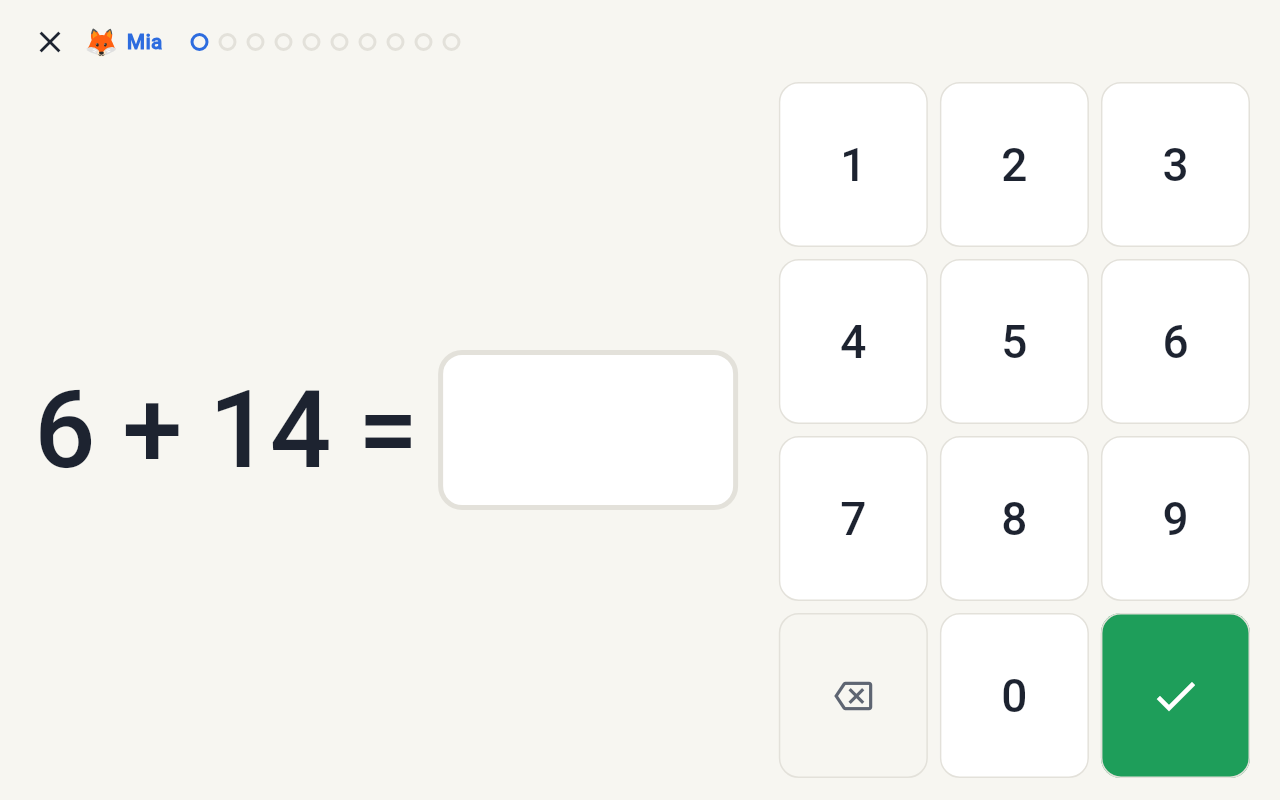
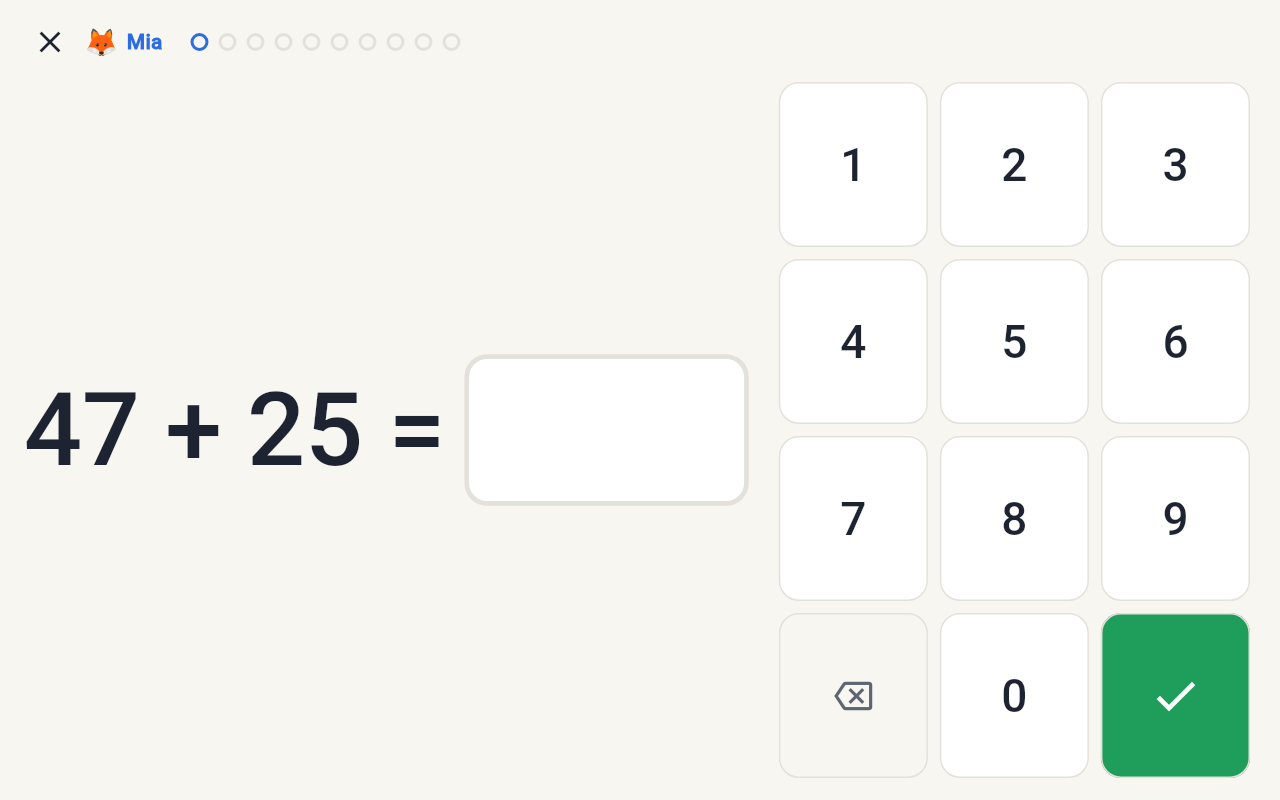
Stabiles Flutter und ein versionCode, den F-Droid lesen kann (2.13.4)
Zwei Vorbedingungen für die Aufnahme, beide am echten Build gegengeprüft.

Der versionCode steht jetzt in pubspec.yaml (2.13.4+21304) statt nur in den
Build-Skripten. F-Droid liest ihn von dort und erkennt daran, dass ein neuer
Tag eine neuere Version ist; damit findet UpdateCheckMode: Tags jede weitere
Veröffentlichung von selbst und legt den Builds-Eintrag an. Der Build-Befehl
braucht dafür weder --build-name noch --build-number mehr: das fertige APK
meldet versionCode 21304 und versionName 2.13.4 allein aus pubspec.yaml.
Weil die beiden Zahlen nun auseinanderlaufen können, rechnet
test/pubspec_version_test.dart die Regel nach.

Die SDK-Grenze geht von ^3.14.0-95.2.beta auf ^3.13.0 und damit auf den
stabilen Kanal. Die Beta-Grenze stammte nicht aus Bedarf, sondern daher, dass
flutter create mit einem Beta-SDK lief; die höchste Forderung unter den
Abhängigkeiten ist ^3.12.0. Geprüft mit Flutter 3.47.4 stable: analyze ohne
Befund, 1166 Tests grün, Release-APK gebaut. Die Screenshots bleiben bis auf
die drei mit zufällig gezogenen Aufgaben Pixel für Pixel dieselben.

Dabei fiel auf, dass "keine einzige Android-Berechtigung" nicht stimmte:
AndroidX legt DYNAMIC_RECEIVER_NOT_EXPORTED_PERMISSION an, mit
protectionLevel="signature". Sie erlaubt nichts und hält nur einen intern
angemeldeten Empfänger von anderen Apps fern - aber F-Droid zeigt die Liste,
und dort stünde ein Eintrag, den die Beschreibung bestreitet.
[…]

Changed region(s): [[0.0, 0.4375, 0.5625, 0.625], [0.375, 0.625, 0.5625, 0.6562], [0.5625, 0.4688, 0.5938, 0.625]]

diff --git a/test/pubspec_version_test.dart b/test/pubspec_version_test.dart
@@ -1,0 +1,30 @@
+import 'dart:io';
+
+import 'package:flutter_test/flutter_test.dart';
+
+/// Keeps the two halves of `version:` in step.
+///
+/// The build scripts used to work the versionCode out from the version alone,
+/// and nothing but the scripts ever knew it. F-Droid reads it out of
+/// `pubspec.yaml` instead - that is how it tells whether a new tag is a newer
+/// version - so the number has to stand there, and now it can drift from the
+/// name beside it. Two builds claiming the same code are not an upgrade to
+/// Android's package manager, and one installed over the other can leave the
+/// app unable to start; that has happened once already.
+void main() {
+  test('the versionCode follows the version', () {
+    final line = File('pubspec.yaml')
+        .readAsLinesSync()
+        .firstWhere((l) => l.startsWith('version:'));
+    final match =
+        RegExp(r'^version:\s*(\d+)\.(\d+)\.(\d+)\+(\d+)\s*$').firstMatch(line);
+    expect(match, isNotNull,
+        reason: 'erwartet "version: X.Y.Z+N", gelesen "$line"');
+
+    final [major, minor, patch, code] =
+        [for (var i = 1; i <= 4; i++) int.parse(match!.group(i)!)];
+    expect(code, major * 10000 + minor * 100 + patch,
+        reason: 'der versionCode gehört zur Version: '
+            '$major.$minor.$patch heißt ${major * 10000 + minor * 100 + patch}');
+  });
+}

diff --git a/fdroid/README.md b/fdroid/README.md
@@ -29,29 +29,27 @@ fdroid build -v -l com.chrbayer.mathe_trainer
 
 ## Was die Recipe voraussetzt
 
-* **Der Tag.** `commit: v2.13.3` zeigt auf einen annotierten Tag, nicht auf
-  einen Branch. Jede weitere Version braucht einen weiteren Eintrag unter
-  `Builds` und einen Tag dazu.
-* **Die Versionsnummern stehen doppelt.** `--build-name` und
-  `--build-number` müssen im Build-Befehl mitgegeben werden, weil
-  `pubspec.yaml` bewusst kein `+N` führt (siehe „Versionierung" in
-  CLAUDE.md). Ohne sie vergäbe Flutter `versionCode = 1`, und F-Droid bricht
-  ab, weil der Code nicht zu dem in der Recipe passt.
-* **`--dart-define=MT_VERSION`** ist dieselbe Nummer ein drittes Mal. Ohne
-  sie bleibt die Ecke auf dem Profilbildschirm leer — ehrlich, aber unnötig.
+* **Der Tag.** `commit: v2.13.4` zeigt auf einen annotierten Tag, nicht auf
+  einen Branch. Jede weitere Version braucht einen Tag dazu; den Eintrag
+  unter `Builds` schreibt F-Droid selbst (siehe unten).
+* **Die Versionsnummern stehen in `pubspec.yaml`**, als `2.13.4+21304`.
+  Deshalb braucht der Build-Befehl weder `--build-name` noch
+  `--build-number`: Flutter nimmt beides von dort. Ein Test hält die zwei
+  Hälften zusammen, siehe „Versionierung" in CLAUDE.md.
+* **`--dart-define=MT_VERSION`** ist die Nummer noch einmal, damit die App
+  sie anzeigen kann. `$$VERSION$$` setzt F-Droid aus `versionName` ein, also
+  steht sie auch hier nicht von Hand da.
 * **Die Screenshots und Beschreibungen** holt F-Droid selbst aus
   `fastlane/metadata/android/` im getaggten Commit. Nichts davon gehört in
-  die Recipe.
+  die Recipe. Der Änderungshinweis muss unter dem **versionCode** liegen,
+  also `changelogs/21304.txt`.
+* **Automatische Updates.** `UpdateCheckMode: Tags` findet den neuen Tag,
+  `UpdateCheckData` liest Name und Code aus `pubspec.yaml`, und
+  `AutoUpdateMode: Version v%v` legt den `Builds`-Eintrag an. Nach einem
+  Release ist also nichts mehr von Hand zu tun — vorausgesetzt, der Tag
+  heißt `v<Version>` und `pubspec.yaml` trägt das `+N`.
 
-## Drei Punkte, an denen eine Prüfung hängenbleiben kann
-
-**Flutter aus dem Beta-Kanal.** `pubspec.yaml` verlangt Dart
-`^3.14.0-95.2.beta`, und die Recipe checkt deshalb `3.48.0-0.4.pre` aus. Ein
-stabiles Flutter erfüllt diese Grenze nicht. Reviewer sehen das nicht gern,
-und der saubere Ausweg ist, die Grenze zu senken und gegen das aktuelle
-stabile Flutter zu prüfen — das ist eine Projektentscheidung und keine Frage
-der Recipe. Die Grenze stammt vermutlich nur daher, dass `flutter create`
-mit einem Beta-SDK lief.
+## Ein Punkt, an dem eine Prüfung hängenbleiben kann
 
 **Die Signatur.** Ohne `android/key.properties` fällt der Release-Build in
 `build.gradle.kts` auf den Debug-Schlüssel zurück, damit
@@ -63,20 +61,18 @@ debuggierbar — es sollte also durchlaufen. Wenn ein Reviewer daran Anstoß
 nimmt, ist die Antwort eine Zeile mehr im Gradle-Skript: gar nicht signieren,
 wenn kein Keystore da ist.
 
-**Keine automatischen Updates.** `AutoUpdateMode: None` heißt, dass jede neue
-Version von Hand als `Builds`-Eintrag nachgetragen wird. `UpdateCheckMode:
-Tags` sorgt immerhin dafür, dass F-Droid einen neuen Tag meldet. Voll
-automatisch ginge es erst, wenn in `pubspec.yaml` der Versionscode mit
-stünde (`version: 2.13.3+21303`) — dann läse ihn die übliche
-`UpdateCheckData` heraus. Das wäre dieselbe Zahl an zwei Stellen, und genau
-das vermeidet das Projekt bisher.
-
 ## Was geprüft ist
 
-* Keine Android-Berechtigung im Manifest, auch kein Internetzugriff.
+* Keine Berechtigung, die auf Daten, Sensoren oder das Netz zugreift, und
+  insbesondere kein Internetzugriff. Die Liste des fertigen APK zeigt eine
+  einzige Zeile, `DYNAMIC_RECEIVER_NOT_EXPORTED_PERMISSION` — von AndroidX
+  erzeugt, `protectionLevel="signature"`, und sie erlaubt nichts, sondern
+  hält einen internen Empfänger von anderen Apps fern.
 * Keine Binärdateien im Repository: kein `.jar`, kein `.aar`, kein `.so`,
   kein Gradle-Wrapper-Jar. Die Icons sind PNG aus SVG erzeugt, die Töne
   WAV aus `tool/make_sounds.py`.
 * Nur freie Abhängigkeiten; kein Firebase, keine Google Play Services.
 * `LICENSE` ist der volle GPL-3-Text, und README nennt „Version 3 oder
   später" — daher `GPL-3.0-or-later`.
+* Die App baut und läuft auf dem **stabilen** Kanal; `pubspec.yaml` verlangt
+  Dart `^3.13.0`, und das erfüllt Flutter 3.47.4.

diff --git a/CLAUDE.md b/CLAUDE.md
@@ -1150,10 +1150,22 @@ mit, sonst sperrt eine Wiederherstellung die Eltern aus.
 
 ## Versionierung
 
-`pubspec.yaml` führt nur den Build-Namen: `version: 1.0.0`. Der Teil vor einem
+`pubspec.yaml` führt **beides**: `version: 2.13.4+21304`. Der Teil vor dem
 `+` wird zum Android-`versionName`, der Teil dahinter zum `versionCode` — die
 ganze Zeichenkette an `--build-name` zu hängen wäre falsch, dann stünde das
 `+N` im sichtbaren Versionsnamen.
+
+Lange stand dort nur der Name, und die Build-Skripte rechneten den Code
+selbst aus. Das ging, solange die Skripte die einzigen waren, die ihn
+brauchten. **F-Droid liest ihn aus dieser Zeile** — daran erkennt es, dass
+ein neuer Tag eine neuere Version ist —, und ein Wert, den nur ein Skript
+kennt, ist für alles außerhalb des Skripts nicht vorhanden.
+
+Dafür können die beiden Zahlen jetzt auseinanderlaufen, und deshalb gibt es
+`test/pubspec_version_test.dart`: er rechnet dieselbe Regel nach und schlägt
+fehl, sobald sie es tun. Die Skripte nehmen den Code weiterhin aus dem `+N`,
+wenn eines da ist, und rechnen ihn nur sonst aus — beide Wege stehen noch da,
+aber nur einer wird benutzt.
 
 Ohne `+N` gäbe Flutter jeder App **`versionCode = 1`**, und genau daran
 entscheidet Android, ob eine APK ein Update ist. Zwei verschiedene Builds, die
@@ -1195,6 +1207,24 @@ Das ist kein Versäumnis und braucht keinen Versuch. Wer `flutter pub upgrade`
 laufen lässt: danach `dart run build_runner build`, `flutter analyze` und
 `flutter test` — und die Version anheben, denn ein anderer Build darf nicht
 denselben `versionCode` behaupten wie der vorige (siehe „Versionierung").
+
+## Flutter stable, nicht beta
+
+`environment.sdk` in `pubspec.yaml` nennt eine **Untergrenze**, nicht die
+gerade installierte Fassung, und sie muss vom **stabilen** Kanal zu erfüllen
+sein: F-Droid baut aus `flutter@<Tag>`, und ein Beta-Tag ist dort schwer zu
+begründen. Die Grenze stand auf `^3.14.0-95.2.beta` — nicht aus Bedarf,
+sondern weil `flutter create` mit einem Beta-SDK lief.
+
+Wer sie anhebt, muss zwei Dinge prüfen: dass der **stabile** Kanal sie
+erfüllt, und dass die **Abhängigkeiten** sie nicht schon überholt haben. Die
+höchste Forderung unter ihnen bestimmt die Untergrenze nach unten hin; zum
+Zeitpunkt der Umstellung war das `^3.12.0` (`flutter_riverpod`, `riverpod`,
+`file_selector_android`, `synchronized`).
+
+Die Grenze ist zugleich die **Sprachversion**, gegen die der Analyzer prüft.
+Eine niedrig gesetzte Grenze ist damit kein Versprechen, sondern eine
+Bedingung, an die er sich hält.
 
 ## Linux-Build
 

diff --git a/fdroid/RFP.md b/fdroid/RFP.md
@@ -32,15 +32,19 @@ Die Oberfläche ist auf Deutsch.
 | Quelltext | <https://github.com/chrbayer/mt> |
 | Lizenz | GPL-3.0-or-later |
 | Fehler und Fragen | <https://github.com/chrbayer/mt/issues> |
-| Aktuelle Version | 2.13.3 (versionCode 21303), Tag `v2.13.3` |
-| Gebaut mit | Flutter 3.48.0-0.4.pre |
+| Aktuelle Version | 2.13.4 (versionCode 21304), Tag `v2.13.4` |
+| Gebaut mit | Flutter 3.47.4 (stable) |
 
 Ich bin der Autor und reiche die App selbst ein.
 
 ## Warum sie hierher passt
 
-* **Keine einzige Android-Berechtigung**, auch kein Internetzugriff. Die App
-  kann nichts übertragen, selbst wenn sie wollte.
+* **Keine Berechtigung, die auf Daten, Sensoren oder das Netz zugreift**,
+  insbesondere kein Internetzugriff — die App kann nichts übertragen, selbst
+  wenn sie wollte. Die Liste zeigt einen einzigen Eintrag, den AndroidX
+  erzeugt: `DYNAMIC_RECEIVER_NOT_EXPORTED_PERMISSION` mit
+  `protectionLevel="signature"`, der nur einen internen Empfänger vor anderen
+  Apps abschirmt.
 * Keine Werbung, kein Tracking, keine Analyse, keine Absturzberichte, keine
   Konten. Alles bleibt in einer Datenbank auf dem Gerät.
 * Nur freie Abhängigkeiten, kein Firebase, keine Google Play Services.
@@ -57,9 +61,6 @@ Ich bin der Autor und reiche die App selbst ein.
 Liegt fertig im Repository unter
 [`fdroid/com.chrbayer.mathe_trainer.yml`](https://github.com/chrbayer/mt/blob/master/fdroid/com.chrbayer.mathe_trainer.yml).
 
-Ein Punkt, den ich von mir aus nenne: `pubspec.yaml` verlangt Dart
-`^3.14.0-95.2.beta`, die Recipe checkt deshalb ein Flutter aus dem
-Beta-Kanal aus (`3.48.0-0.4.pre`). Die Grenze stammt daher, dass das Projekt
-mit einem Beta-SDK angelegt wurde; ob die App sie tatsächlich braucht, habe
-ich nicht gegengeprüft. Wenn ein stabiles Flutter Bedingung ist, senke ich
-die Grenze und prüfe dagegen.
+Sie baut mit dem stabilen Kanal, und `UpdateCheckMode: Tags` zusammen mit
+`AutoUpdateMode` sollte jede weitere Version ohne Zutun finden: Name und
+versionCode stehen beide in `pubspec.yaml`, und die Tags heißen `v<Version>`.

diff --git a/TODO.md b/TODO.md
@@ -303,3 +303,25 @@ Woche später endet als der Tag. Am Sonntag laufen beide im selben Moment ab,
 und dann entscheidet das Alter — was der Test daneben ohnehin prüft. Der Test
 stellt die Uhr jetzt selbst auf einen Mittwoch, statt sich auf den Kalender
 zu verlassen.
+
+#45 erledigt (2.13.4) — Zwei Vorbedingungen für F-Droid eingelöst. Der
+versionCode steht jetzt in `pubspec.yaml` (`2.13.4+21304`) statt nur in den
+Build-Skripten: F-Droid liest ihn von dort und erkennt daran, dass ein neuer
+Tag eine neuere Version ist. Damit findet `UpdateCheckMode: Tags` jede
+weitere Veröffentlichung von selbst, und der Eintrag in der Recipe entsteht
+ohne Zutun. Weil die beiden Zahlen jetzt auseinanderlaufen können, rechnet
+`test/pubspec_version_test.dart` die Regel nach.
+
+Dazu die SDK-Grenze von `^3.14.0-95.2.beta` auf `^3.13.0` gesenkt und damit
+auf den stabilen Kanal umgestellt. Die Beta-Grenze stammte nicht aus Bedarf,
+sondern daher, dass `flutter create` mit einem Beta-SDK lief; die höchste
+Forderung unter den Abhängigkeiten war `^3.12.0`. Ein Beta-Tag in der
+F-Droid-Recipe wäre schwer zu begründen gewesen.
+
+Beim Gegenprüfen am fertigen APK fiel auf, dass „keine einzige
+Android-Berechtigung" nicht stimmte: AndroidX legt eine eigene an,
+`DYNAMIC_RECEIVER_NOT_EXPORTED_PERMISSION` mit `protectionLevel="signature"`.
+Sie erlaubt nichts — sie hält einen intern angemeldeten Empfänger von anderen
+Apps fern —, aber F-Droid zeigt die Liste an, und dort hätte ein Eintrag
+gestanden, den die Beschreibung bestreitet. Datenschutzerklärung, README und
+beide Store-Texte sagen es jetzt genau.

diff --git a/DATENSCHUTZ.md b/DATENSCHUTZ.md
@@ -12,9 +12,16 @@ bleibt auf dem Gerät, auf dem geübt wird. Es gibt keine Konten, keine
 Werbung, keine Analyse, keine Absturzberichte und keine Verbindung zu
 irgendeinem Server.
 
-Die veröffentlichte Fassung der App fordert **keine einzige
-Android-Berechtigung** an, auch keinen Internetzugriff. Sie könnte gar nichts
-übertragen, selbst wenn sie es wollte.
+Die veröffentlichte Fassung der App fordert **keine Berechtigung an, die
+auf Daten, Sensoren oder das Netz zugreift** — insbesondere keinen
+Internetzugriff. Sie könnte gar nichts übertragen, selbst wenn sie es wollte.
+
+In der Berechtigungsliste steht genau ein Eintrag, und der stammt nicht aus
+dem Quelltext dieser App, sondern aus einer Android-Bibliothek:
+`com.chrbayer.mathe_trainer.DYNAMIC_RECEIVER_NOT_EXPORTED_PERMISSION`. Die
+App definiert ihn für sich selbst, er ist auf die eigene Signatur beschränkt,
+und er bewirkt nur eines — dass ein intern angemeldeter Empfänger für andere
+Apps unerreichbar bleibt. Er erlaubt nichts; er schließt aus.
 
 ## Wer verantwortlich ist
 

diff --git a/README.md b/README.md
@@ -426,8 +426,11 @@ jede weitergegebene Abwandlung ihren Quelltext mitbringt.
 
 ## Datenschutz
 
-Die App sendet nichts und fordert in der veröffentlichten Fassung keine
-einzige Android-Berechtigung an. Die Einzelheiten stehen in
+Die App sendet nichts und fordert keine Berechtigung an, die auf Daten,
+Sensoren oder das Netz zugreift — insbesondere keinen Internetzugriff. Der
+einzige Eintrag in der Liste ist eine auf die eigene Signatur beschränkte
+Berechtigung, die eine Android-Bibliothek erzeugt, damit ein interner
+Empfänger für andere Apps unerreichbar bleibt. Die Einzelheiten stehen in
 [DATENSCHUTZ.md](DATENSCHUTZ.md); dieselbe Datei taugt als
 Datenschutzerklärung, sobald sie unter einer öffentlichen Adresse liegt — auf
 GitHub etwa unter
